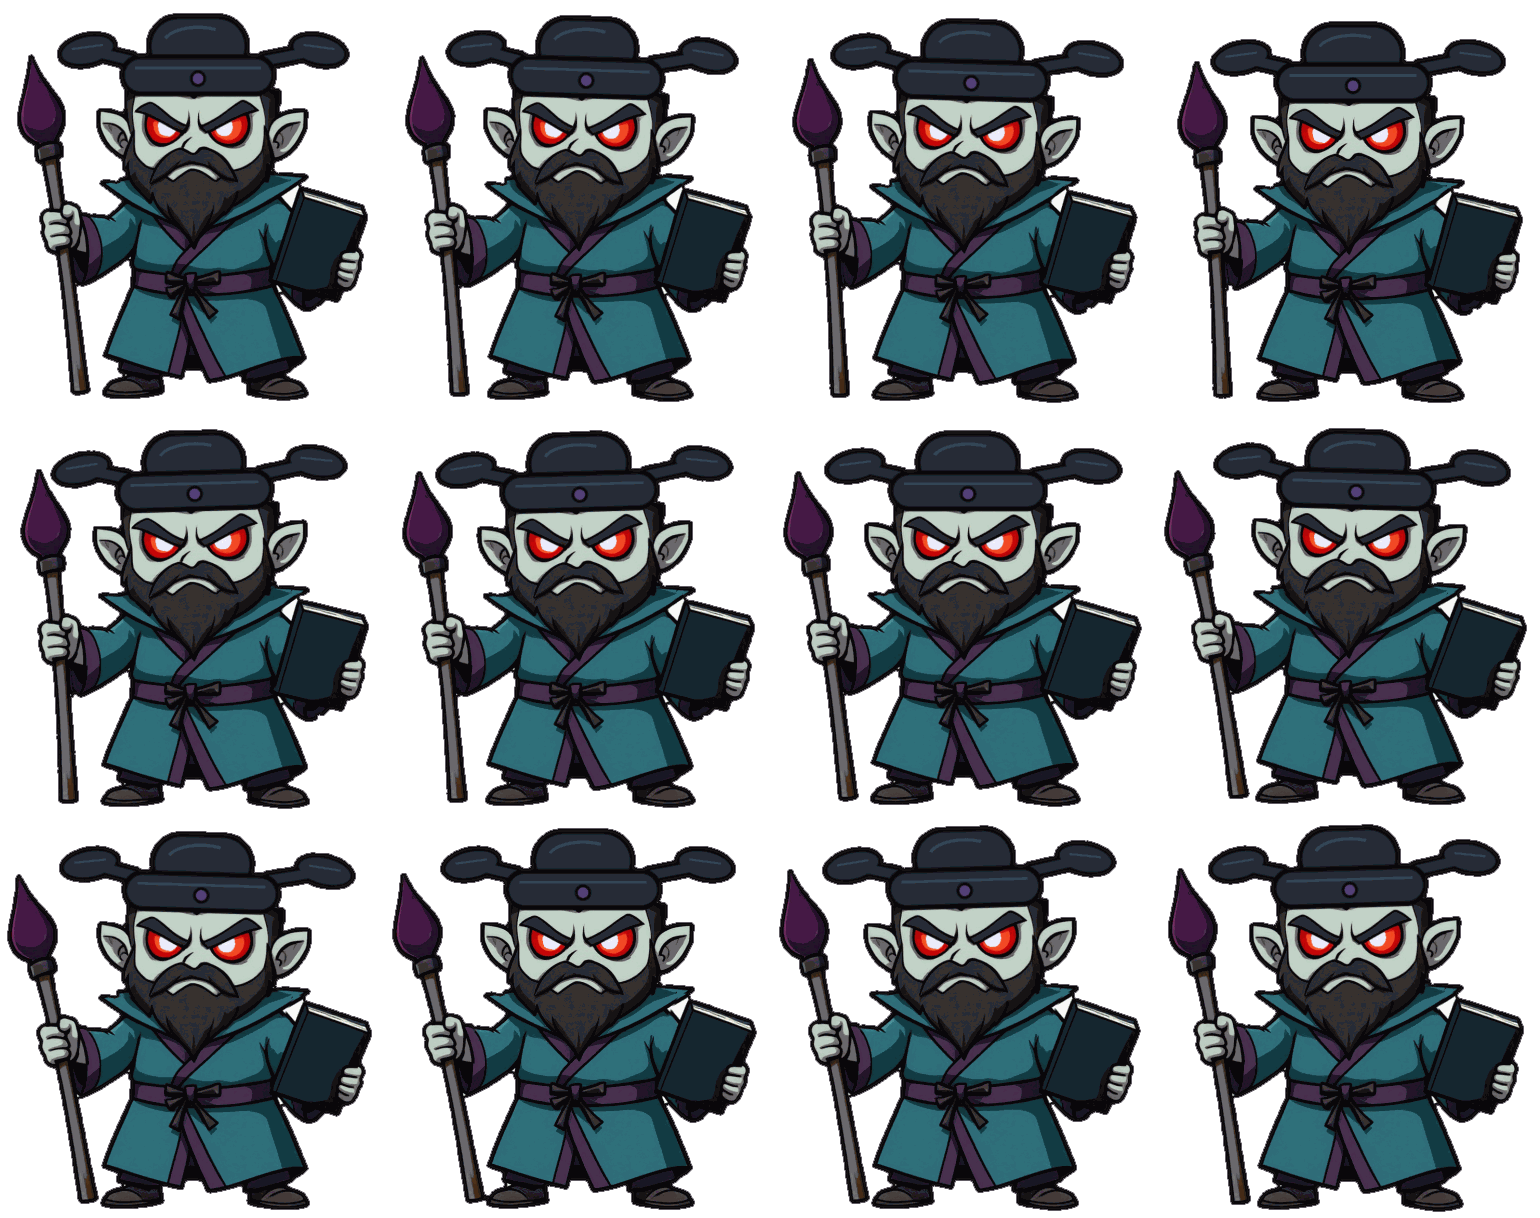
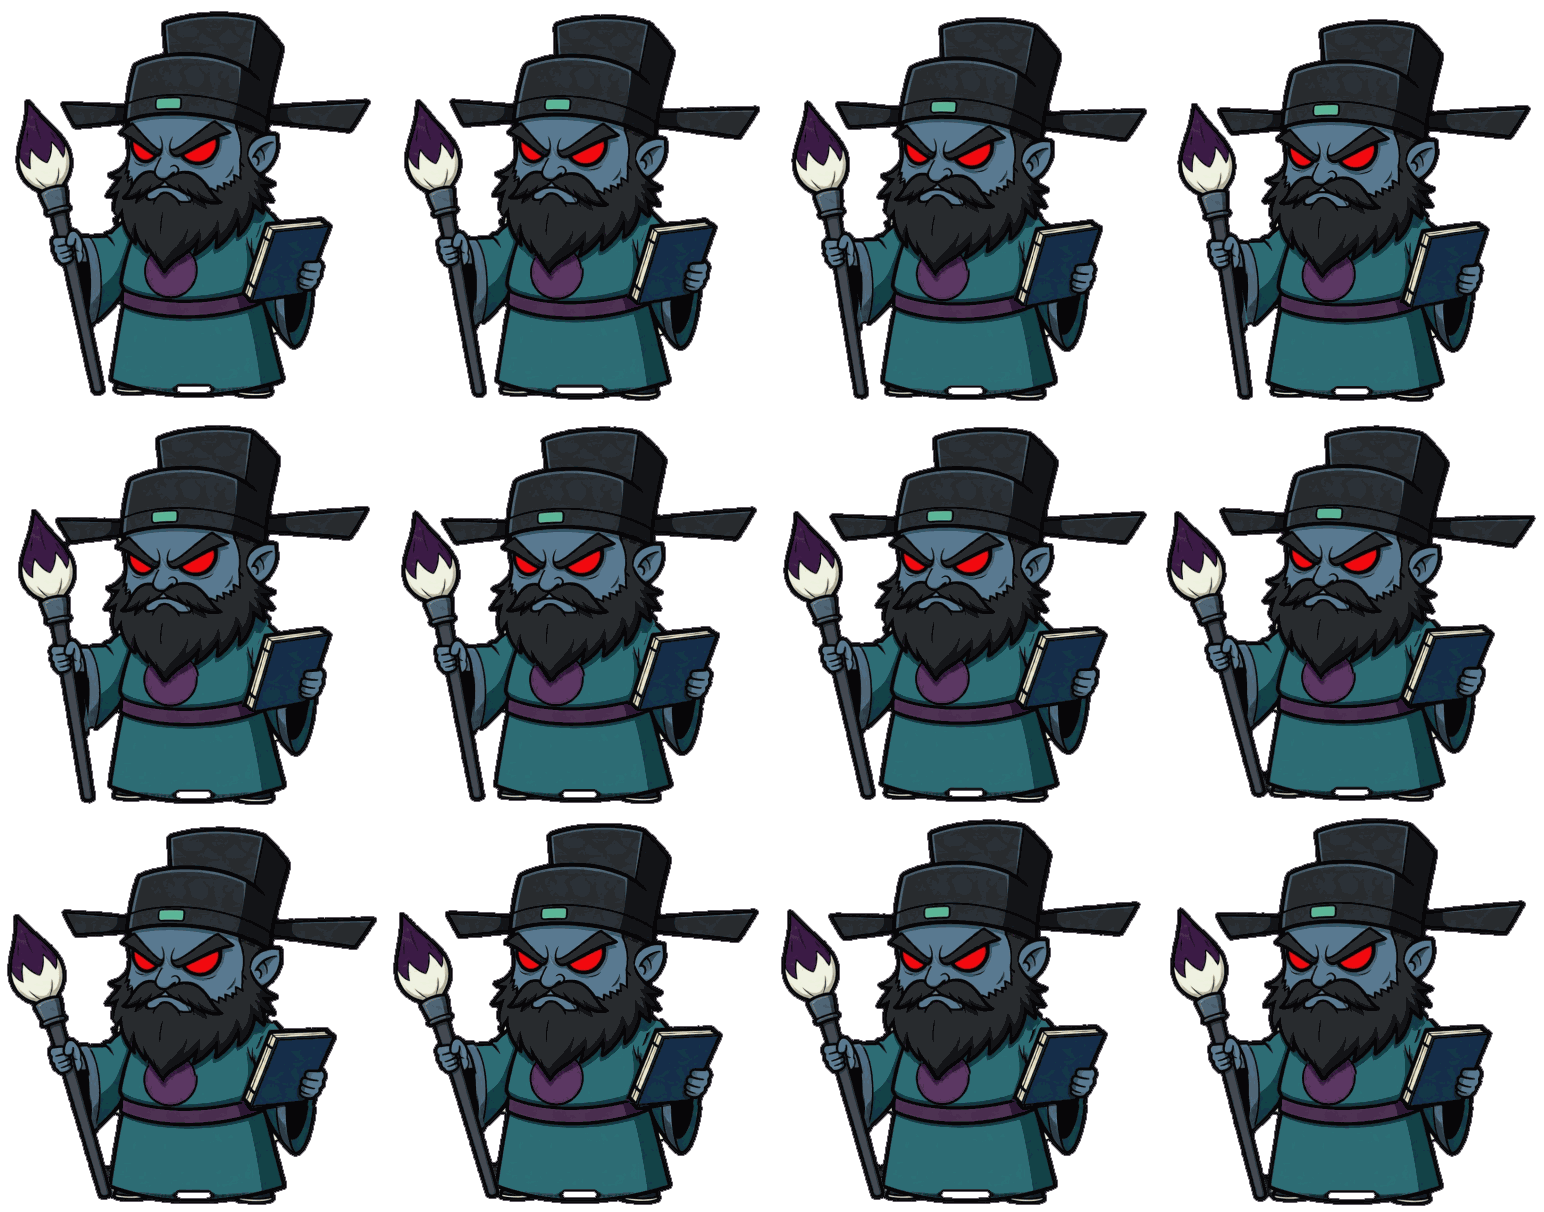
Art: redraw the Underworld Judge whole, gauze cap and cold brush included
The old drawing wore a patched-on cap over a top hat and carried a baked grey ground
shadow; the new one is drawn with the official's cap, its brush handle cooled, and the
rig drops its own shadow. Spells start from the new brush tip.

diff --git a/client/src/game/witchView.ts b/client/src/game/witchView.ts
@@ -41,7 +41,7 @@ export const WITCH_STYLE: StaffBossStyle = {
 };
 
 export const JUDGE_STYLE: StaffBossStyle = {
-  name: 'boss.judge', empoweredName: 'boss.judgeEmpowered', windup: JUDGE.windup, swell: 0.08, staff: [0.43, 0.87], glow: VIOLET, spark: 0x2a2440,
+  name: 'boss.judge', empoweredName: 'boss.judgeEmpowered', windup: JUDGE.windup, swell: 0.08, staff: [0.43, 0.75], glow: VIOLET, spark: 0x2a2440,
 };
 
 /** The empowered boss's multiply tint, and the enraged judge's at the top of its throb. */

diff --git a/art/monk/mobs/ghost/judge_cool.py b/art/monk/mobs/ghost/judge_cool.py
@@ -1,0 +1,22 @@
+"""Turns the redrawn judge's brown brush handle (and the book's cream page edges, left as they
+are) into the old drawing's dark slate: inside the handle's box, every brown pixel keeps its
+lightness and takes a cold slate hue.
+usage: python judge_cool.py judge3L.png judge3_v1.png"""
+import sys
+
+import cv2
+import numpy as np
+
+src, dst = sys.argv[1:3]
+bgr = cv2.imread(src)
+hsv = cv2.cvtColor(bgr, cv2.COLOR_BGR2HSV).astype(np.int32)
+win = np.zeros(hsv.shape[:2], bool)
+win[420:850, 280:430] = True  # the handle below the ferrule, in judge3L.png's pixels
+hit = win & (hsv[..., 0] >= 2) & (hsv[..., 0] <= 36) & (hsv[..., 1] > 35) & (hsv[..., 2] > 25)
+hit = cv2.dilate(hit.astype(np.uint8), np.ones((3, 3), np.uint8)) > 0
+hit &= win & (hsv[..., 0] <= 40) & (hsv[..., 1] > 20)
+hsv[hit, 0] = 108
+hsv[hit, 1] = 40
+hsv[hit, 2] = np.clip(hsv[hit, 2] * 0.85, 0, 255)
+cv2.imwrite(dst, cv2.cvtColor(hsv.astype(np.uint8), cv2.COLOR_HSV2BGR))
+print(f"{int(hit.sum())} px cooled")

diff --git a/art/monk/mobs/ghost/README.md b/art/monk/mobs/ghost/README.md
@@ -12,5 +12,11 @@ baked by `tools/bake_mob.py` from the specs one folder up (`tongue`, `lantern`, 
   rate-limited, so `judge_cap.py` paints the official's black gauze cap with its two flat
   wings over it (`judge_v1.png`); `judge_v2.png` then has the brush handle and boots
   (hues 11-40) cooled. The prompt in `judge.txt` asks for the cap if it is ever redrawn.
+- Redraw (2026-11-19): the whole judge was drawn again with the gauze cap from the start
+  (`judge3L.png`, picked over `judge3M`/`judge3N`); `judge_cool.py` turns the brown brush
+  handle cold (`judge3_v1.png`, the baked source). The rig in `../judge.json` drops the
+  drawing's own grey ground shadow (the `shadow` part); `JUDGE_SCALE` stays 1.2, so the cap
+  makes him about a tenth taller than before, and `JUDGE_STYLE.staff` puts the spells at the
+  new brush tip.
 - The judge's sheet is 12 frames of 385x406, like the witch's; the empowered witch of this
   chapter's wave 25 reuses her chapter 3 sheet, tinted.
